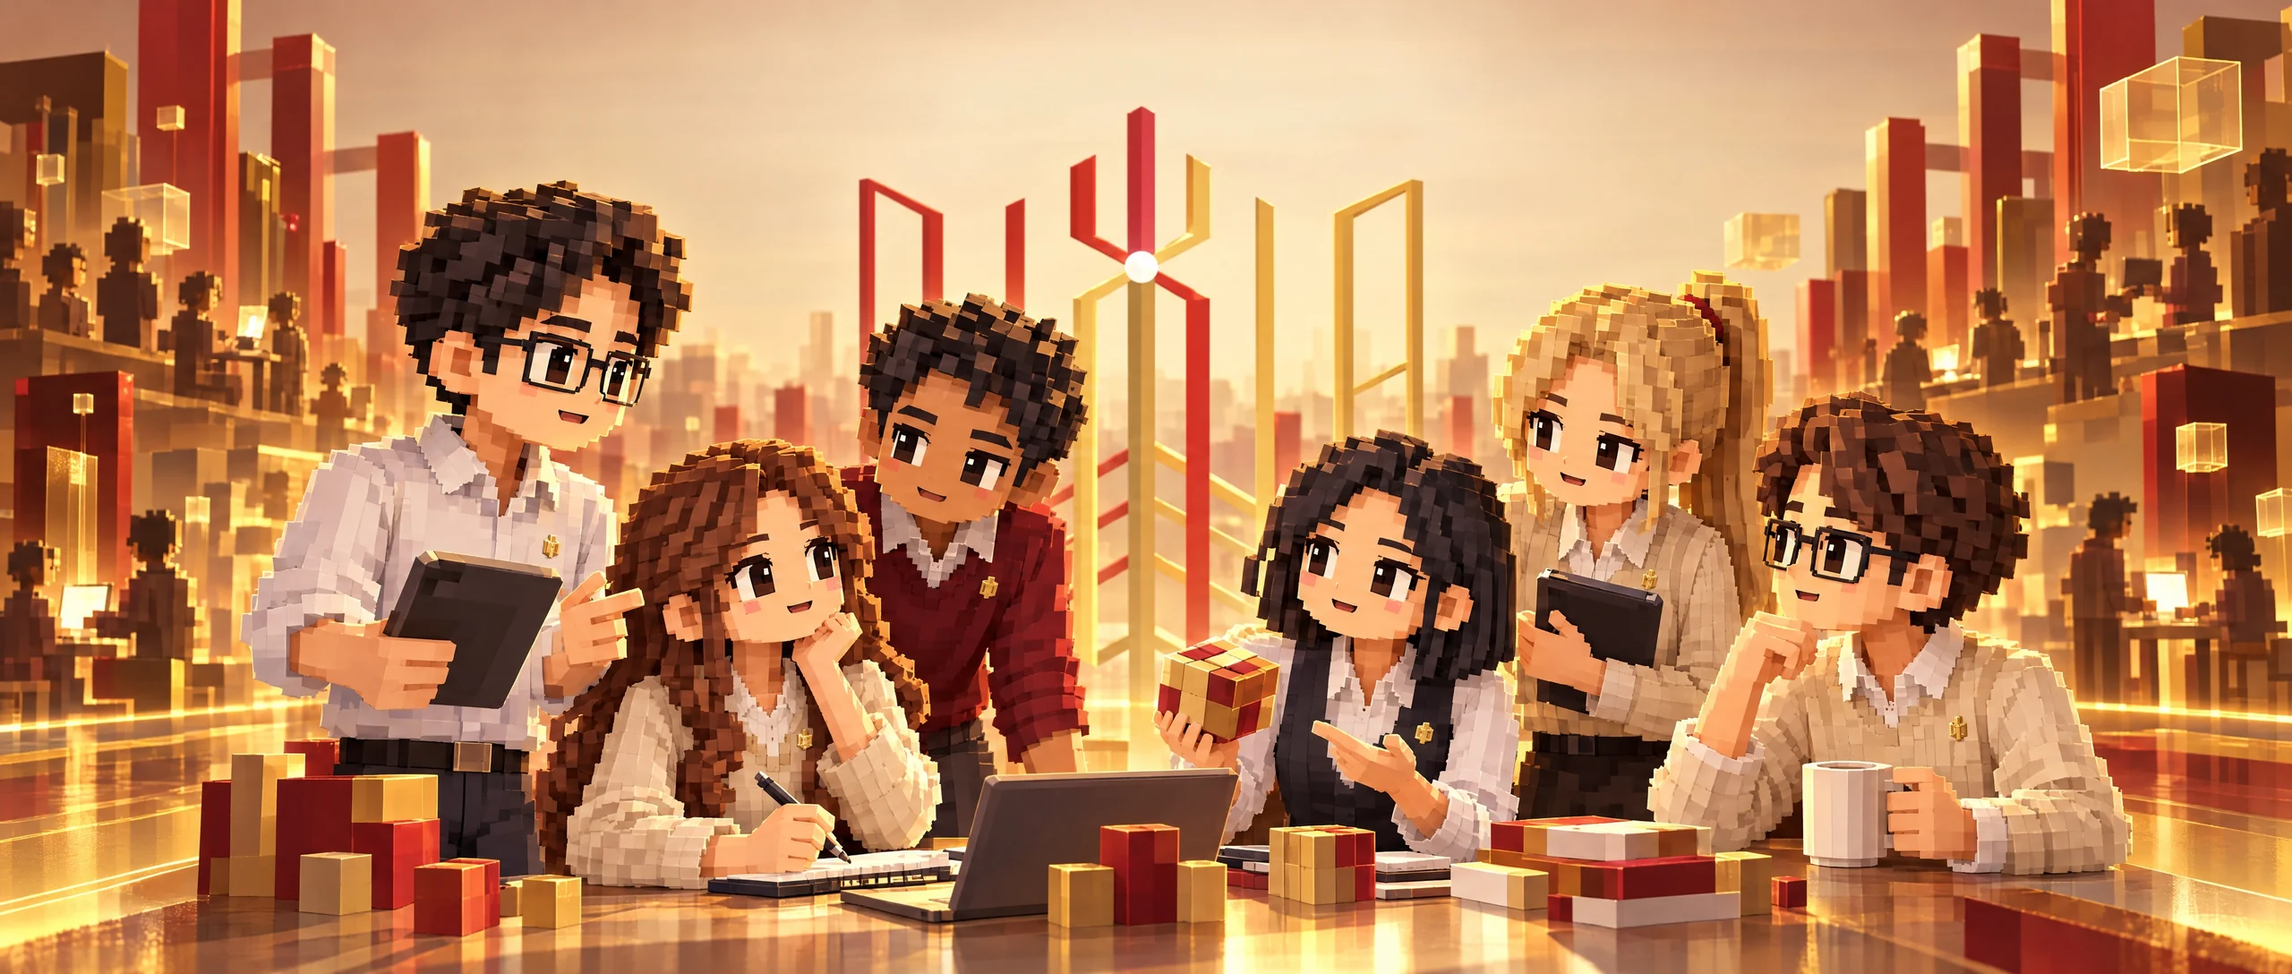
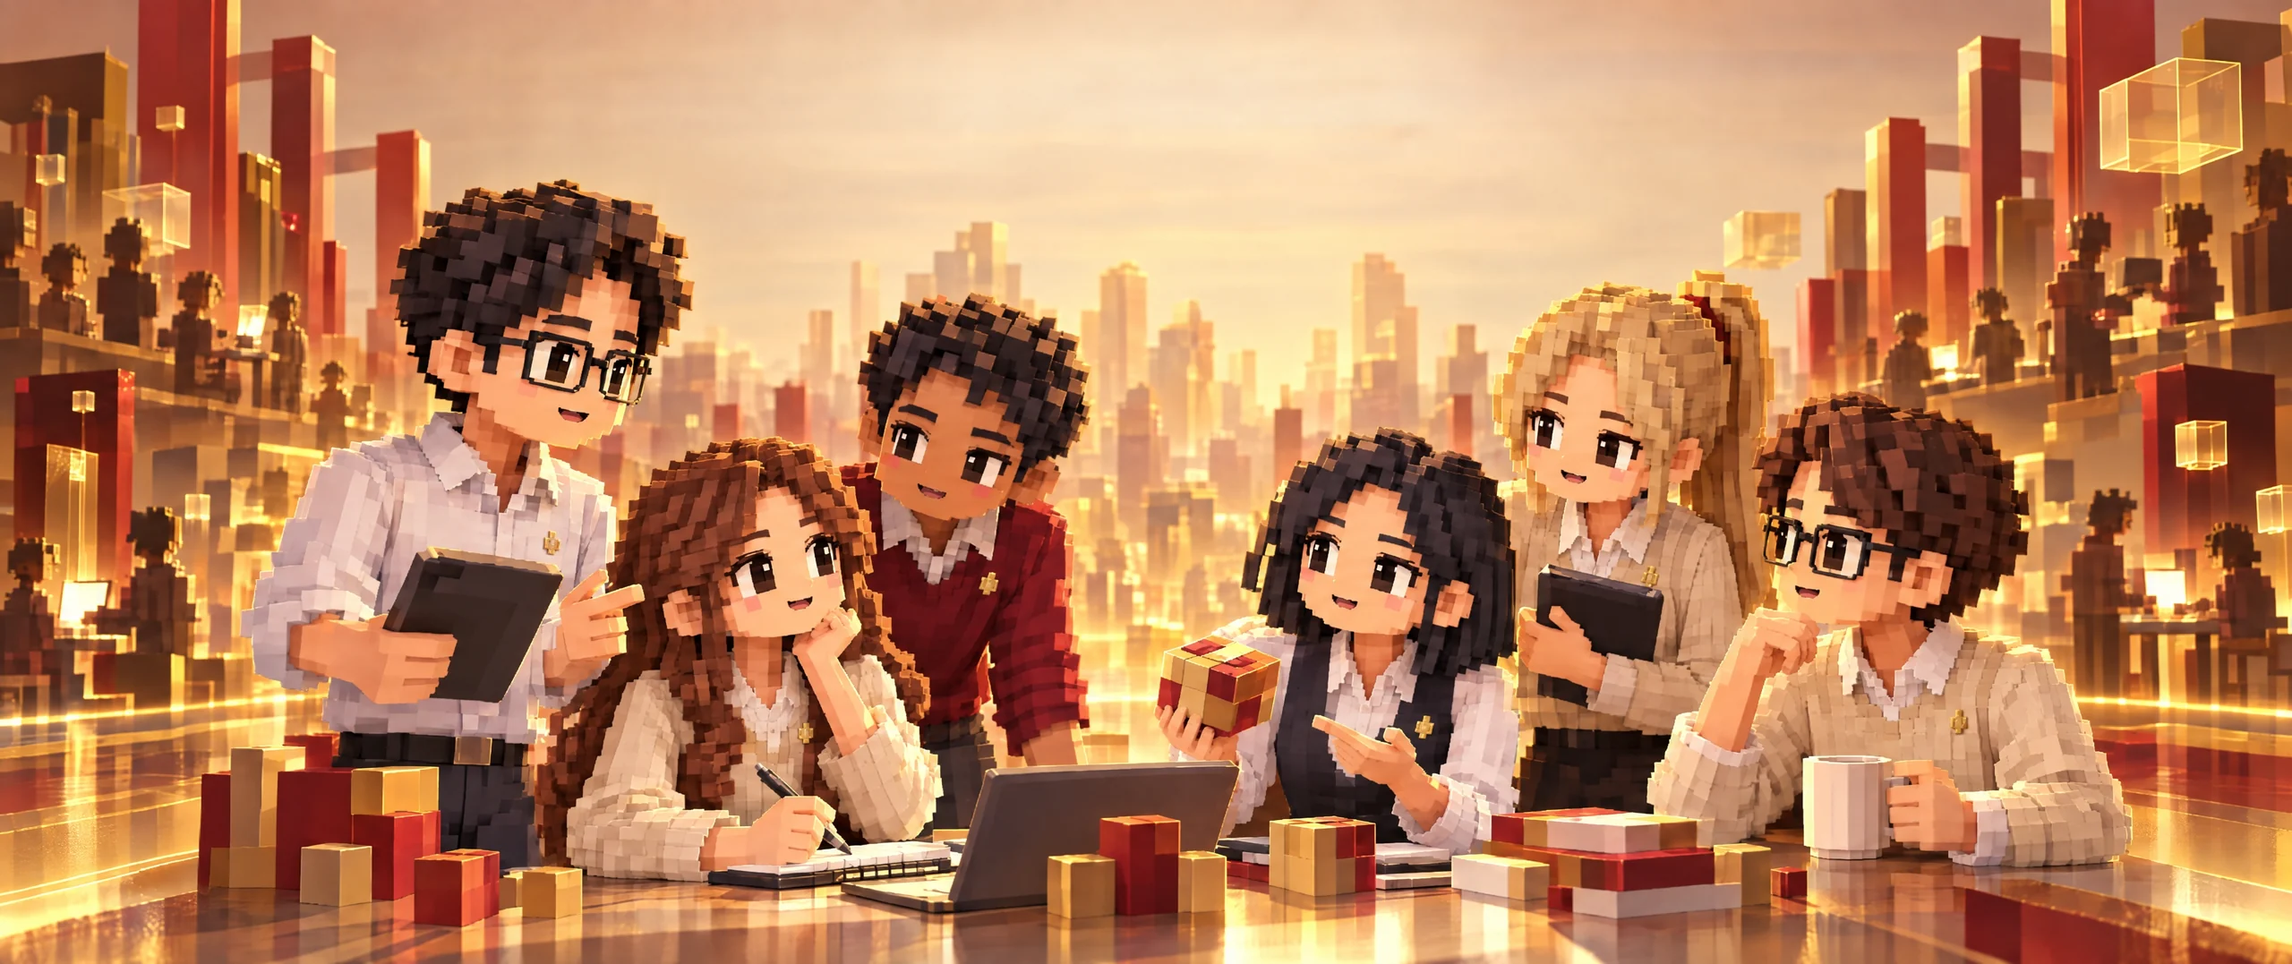
20261006-1530

diff --git a/src/components/templates/members/detail.tsx b/src/components/templates/members/detail.tsx
@@ -16,8 +16,8 @@ import {
 import type {MemberData} from '@/types/data'
 
 // Image Imports
-import banner2 from '@/assets/images/banner/2.webp'
-import banner2m from '@/assets/images/banner/2m.webp'
+import bannerCurrent from '@/assets/images/banner/current.webp'
+import bannerCurrentM from '@/assets/images/banner/current-m.webp'
 
 // Email Popup Component
 const EmailPopup = ({ email, onClose, degree }: { email: string; onClose: () => void; degree?: string }) => {
@@ -127,11 +127,11 @@ export const MembersDetailTemplate = ({memberId}: Props) => {
         <div className="relative w-full h-200 md:h-332 overflow-hidden">
           <div
             className="absolute inset-0 bg-cover bg-center md:hidden"
-            style={{backgroundImage: `url(${banner2m})`}}
+            style={{ backgroundImage: `url(${bannerCurrentM})`, backgroundPosition: '50% 30%' }}
           />
           <div
             className="absolute inset-0 hidden md:block bg-cover bg-center"
-            style={{backgroundImage: `url(${banner2})`}}
+            style={{ backgroundImage: `url(${bannerCurrent})`, backgroundPosition: '50% 15%' }}
           />
           <div className="absolute inset-0 bg-black/40"/>
           <div className="absolute inset-0" style={{backgroundColor: 'rgba(214, 177, 77, 0.08)'}} />
@@ -149,11 +149,11 @@ export const MembersDetailTemplate = ({memberId}: Props) => {
         <div className="relative w-full h-200 md:h-332 overflow-hidden">
           <div
             className="absolute inset-0 bg-cover bg-center md:hidden"
-            style={{backgroundImage: `url(${banner2m})`}}
+            style={{ backgroundImage: `url(${bannerCurrentM})`, backgroundPosition: '50% 30%' }}
           />
           <div
             className="absolute inset-0 hidden md:block bg-cover bg-center"
-            style={{backgroundImage: `url(${banner2})`}}
+            style={{ backgroundImage: `url(${bannerCurrent})`, backgroundPosition: '50% 15%' }}
           />
           <div className="absolute inset-0 bg-black/40"/>
           <div className="absolute inset-0" style={{backgroundColor: 'rgba(214, 177, 77, 0.08)'}} />
@@ -192,11 +192,11 @@ export const MembersDetailTemplate = ({memberId}: Props) => {
       <div className="relative w-full h-200 md:h-332 overflow-hidden">
         <div
           className="absolute inset-0 bg-cover bg-center md:hidden"
-          style={{backgroundImage: `url(${banner2m})`}}
+          style={{ backgroundImage: `url(${bannerCurrentM})`, backgroundPosition: '50% 30%' }}
         />
         <div
           className="absolute inset-0 hidden md:block bg-cover bg-center"
-          style={{backgroundImage: `url(${banner2})`}}
+          style={{ backgroundImage: `url(${bannerCurrent})`, backgroundPosition: '50% 15%' }}
         />
         <div className="absolute inset-0 bg-black/40"/>
           <div className="absolute inset-0" style={{backgroundColor: 'rgba(214, 177, 77, 0.08)'}} />

diff --git a/src/components/templates/home/index.tsx b/src/components/templates/home/index.tsx
@@ -418,10 +418,16 @@ export const HomeTemplate = () => {
         <img loading="eager" src={hero4} alt="" className="absolute inset-0 w-full h-full object-cover" />
         <div className="absolute inset-0 bg-black/60" />
         <div className="relative h-full flex flex-col items-center justify-center text-center text-white px-16">
-          <img loading="eager" src={logoFinds} alt="FINDS Lab" 
-            className={`w-80 md:w-112 h-auto mb-16 md:mb-24 transition-all duration-700 cursor-pointer ${logoTapped ? '' : 'brightness-0 invert'} ${!logoTapped ? 'md:hover:brightness-100 md:hover:invert-0' : ''}`}
-            onClick={() => setLogoTapped(prev => !prev)}
-          />
+          {/* 배경 그림 속 로고와 구분되도록 얇은 윤곽선 + 부드러운 그림자 (색 전환 필터와 분리하기 위해 바깥 틀에 적용) */}
+          <div
+            className="mb-16 md:mb-24"
+            style={{ filter: 'drop-shadow(0 0 1px rgba(0,0,0,0.9)) drop-shadow(0 0 1px rgba(0,0,0,0.6)) drop-shadow(0 4px 12px rgba(0,0,0,0.55))' }}
+          >
+            <img loading="eager" src={logoFinds} alt="FINDS Lab" 
+              className={`w-80 md:w-112 h-auto transition-all duration-700 cursor-pointer ${logoTapped ? '' : 'brightness-0 invert'} ${!logoTapped ? 'md:hover:brightness-100 md:hover:invert-0' : ''}`}
+              onClick={() => setLogoTapped(prev => !prev)}
+            />
+          </div>
           <h2 className="text-xl md:text-2xl font-semibold text-primary mb-8">FINDS Lab</h2>
           <p className="text-base md:text-xl font-medium mb-12 md:mb-16">
             <span style={{ color: '#E8D688' }}>Fin</span>

diff --git a/src/components/templates/members/alumni.tsx b/src/components/templates/members/alumni.tsx
@@ -1,8 +1,8 @@
 import React, {memo, useState, useEffect, useRef, useMemo} from 'react'
 import {Link} from 'react-router-dom'
 import {Home, GraduationCap, Building2, ChevronDown, ChevronUp, FileText, ExternalLink, BookOpen, Lightbulb, Users, ArrowUpDown, ArrowUp, ArrowDown} from 'lucide-react'
-import banner2 from '@/assets/images/banner/2.webp'
-import banner2m from '@/assets/images/banner/2m.webp'
+import bannerAlumni from '@/assets/images/banner/alumni.webp'
+import bannerAlumniM from '@/assets/images/banner/alumni-m.webp'
 
 // Get initials from English name (Korean style: "First-Name Last" → "LFN")
 const getInitialsFromEnglishName = (nameEn?: string): string => {
@@ -316,11 +316,11 @@ export const MembersAlumniTemplate = () => {
       <div className="relative w-full h-[clamp(190px,26vw,440px)] overflow-hidden">
         <div
           className="absolute inset-0 bg-cover bg-center md:hidden"
-          style={{backgroundImage: `url(${banner2m})`}}
+          style={{ backgroundImage: `url(${bannerAlumniM})`, backgroundPosition: '50% 30%' }}
         />
         <div
           className="absolute inset-0 hidden md:block bg-cover bg-center md:scale-105 transition-transform duration-[2000ms]"
-          style={{backgroundImage: `url(${banner2})`}}
+          style={{ backgroundImage: `url(${bannerAlumni})`, backgroundPosition: '50% 22%' }}
         />
         <div className="absolute inset-0 bg-gradient-to-br from-black/42 via-black/22 to-[#D6A076]/20" />
         <div className="absolute inset-0" style={{background: 'radial-gradient(ellipse 55% 70% at 50% 50%, rgba(0,0,0,0.34) 0%, transparent 70%)'}} />

diff --git a/src/components/templates/projects/index.tsx b/src/components/templates/projects/index.tsx
@@ -2,8 +2,8 @@ import {memo, useState, useEffect, useRef} from 'react'
 import { DIRECTOR_NAME_KO } from '@/data/director-common'
 import {Link} from 'react-router-dom'
 import {Home, School, Landmark, FlaskConical, Briefcase, ChevronDown, ChevronUp, Folder, TrendingUp, SlidersHorizontal, X, Search, CheckCircle, Factory} from 'lucide-react'
-import banner4 from '@/assets/images/banner/4.webp'
-import banner4m from '@/assets/images/banner/4m.webp'
+import bannerProjects from '@/assets/images/banner/projects.webp'
+import bannerProjectsM from '@/assets/images/banner/projects-m.webp'
 
 // Scroll animation hook
 const useScrollAnimation = () => {
@@ -368,11 +368,11 @@ export const ProjectsTemplate = () => {
       <div className="relative w-full h-[clamp(190px,26vw,440px)] overflow-hidden">
         <div
           className="absolute inset-0 bg-cover bg-center md:hidden"
-          style={{backgroundImage: `url(${banner4m})`}}
+          style={{ backgroundImage: `url(${bannerProjectsM})`, backgroundPosition: '50% 30%' }}
         />
         <div
           className="absolute inset-0 hidden md:block bg-cover bg-center md:scale-105 transition-transform duration-[2000ms]"
-          style={{backgroundImage: `url(${banner4})`}}
+          style={{ backgroundImage: `url(${bannerProjects})`, backgroundPosition: '50% 20%' }}
         />
         <div className="absolute inset-0 bg-gradient-to-br from-black/42 via-black/22 to-[#D6A076]/20" />
         <div className="absolute inset-0" style={{background: 'radial-gradient(ellipse 55% 70% at 50% 50%, rgba(0,0,0,0.34) 0%, transparent 70%)'}} />

diff --git a/src/components/templates/about/introduction.tsx b/src/components/templates/about/introduction.tsx
@@ -3,8 +3,8 @@ import { Link } from 'react-router-dom'
 import { Quote, Home, Target, Atom } from 'lucide-react'
 
 // Image Imports
-import banner1 from '@/assets/images/banner/1.webp'
-import banner1m from '@/assets/images/banner/1m.webp'
+import bannerIntro from '@/assets/images/banner/intro.webp'
+import bannerIntroM from '@/assets/images/banner/intro-m.webp'
 import fdsImg from '@/assets/images/icons/fds.webp'
 import baImg from '@/assets/images/icons/ba.webp'
 import dimImg from '@/assets/images/icons/dim.webp'
@@ -135,11 +135,11 @@ export const AboutIntroductionTemplate = () => {
       <div className="relative w-full h-[clamp(190px,26vw,440px)] overflow-hidden">
         <div
           className="absolute inset-0 bg-cover bg-center md:hidden"
-          style={{ backgroundImage: `url(${banner1m})` }}
+          style={{ backgroundImage: `url(${bannerIntroM})`, backgroundPosition: '50% 30%' }}
         />
         <div
           className="absolute inset-0 hidden md:block bg-cover bg-center md:scale-105 transition-transform duration-[2000ms]"
-          style={{ backgroundImage: `url(${banner1})` }}
+          style={{ backgroundImage: `url(${bannerIntro})`, backgroundPosition: '50% 12%' }}
         />
         <div className="absolute inset-0 bg-gradient-to-br from-black/42 via-black/22 to-[#D6A076]/20" />
         <div className="absolute inset-0" style={{background: 'radial-gradient(ellipse 55% 70% at 50% 50%, rgba(0,0,0,0.34) 0%, transparent 70%)'}} />

diff --git a/src/components/templates/members/director-portfolio-academic.tsx b/src/components/templates/members/director-portfolio-academic.tsx
@@ -71,8 +71,8 @@ type Lecture = {
 }
 
 // Image Imports
-import banner2 from '@/assets/images/banner/2.webp'
-import banner2m from '@/assets/images/banner/2m.webp'
+import bannerDirector from '@/assets/images/banner/director.webp'
+import bannerDirectorM from '@/assets/images/banner/director-m.webp'
 import directorImg from '@/assets/images/members/director.webp'
 import logoKaist from '@/assets/images/logos/kaist.png'
 import logoKyunghee from '@/assets/images/logos/kyunghee.png'
@@ -1361,11 +1361,11 @@ export const MembersDirectorPortfolioAcademicTemplate = () => {
       <div className="relative w-full h-[clamp(190px,26vw,440px)] overflow-hidden">
         <div
           className="absolute inset-0 bg-cover bg-center md:hidden"
-          style={{backgroundImage: `url(${banner2m})`}}
+          style={{ backgroundImage: `url(${bannerDirectorM})`, backgroundPosition: '50% 40%' }}
         />
         <div
           className="absolute inset-0 hidden md:block bg-cover bg-center md:scale-105 transition-transform duration-[2000ms]"
-          style={{backgroundImage: `url(${banner2})`}}
+          style={{ backgroundImage: `url(${bannerDirector})`, backgroundPosition: '50% 15%' }}
         />
         <div className="absolute inset-0 bg-gradient-to-br from-black/42 via-black/22 to-[#D6A076]/20" />
         <div className="absolute inset-0" style={{background: 'radial-gradient(ellipse 55% 70% at 50% 50%, rgba(0,0,0,0.34) 0%, transparent 70%)'}} />

diff --git a/src/components/templates/members/director-portfolio-profile.tsx b/src/components/templates/members/director-portfolio-profile.tsx
@@ -92,8 +92,8 @@ type Lecture = {
 }
 
 // Image Imports
-import banner2 from '@/assets/images/banner/2.webp'
-import banner2m from '@/assets/images/banner/2m.webp'
+import bannerDirector from '@/assets/images/banner/director.webp'
+import bannerDirectorM from '@/assets/images/banner/director-m.webp'
 import directorImg from '@/assets/images/members/director.webp'
 import logoKaist from '@/assets/images/logos/kaist.png'
 import logoKyunghee from '@/assets/images/logos/kyunghee.png'
@@ -538,11 +538,11 @@ export const MembersDirectorPortfolioProfileTemplate = () => {
       <div className="relative w-full h-[clamp(190px,26vw,440px)] overflow-hidden">
         <div
           className="absolute inset-0 bg-cover bg-center md:hidden"
-          style={{backgroundImage: `url(${banner2m})`}}
+          style={{ backgroundImage: `url(${bannerDirectorM})`, backgroundPosition: '50% 40%' }}
         />
         <div
           className="absolute inset-0 hidden md:block bg-cover bg-center md:scale-105 transition-transform duration-[2000ms]"
-          style={{backgroundImage: `url(${banner2})`}}
+          style={{ backgroundImage: `url(${bannerDirector})`, backgroundPosition: '50% 15%' }}
         />
         <div className="absolute inset-0 bg-gradient-to-br from-black/42 via-black/22 to-[#D6A076]/20" />
         <div className="absolute inset-0" style={{background: 'radial-gradient(ellipse 55% 70% at 50% 50%, rgba(0,0,0,0.34) 0%, transparent 70%)'}} />

diff --git a/src/components/templates/members/director-academic.tsx b/src/components/templates/members/director-academic.tsx
@@ -70,8 +70,8 @@ type Lecture = {
 }
 
 // Image Imports
-import banner2 from '@/assets/images/banner/2.webp'
-import banner2m from '@/assets/images/banner/2m.webp'
+import bannerDirector from '@/assets/images/banner/director.webp'
+import bannerDirectorM from '@/assets/images/banner/director-m.webp'
 import directorImg from '@/assets/images/members/director.webp'
 import logoKaist from '@/assets/images/logos/kaist.png'
 import logoKyunghee from '@/assets/images/logos/kyunghee.png'
@@ -1334,11 +1334,11 @@ export const MembersDirectorAcademicTemplate = () => {
       <div className="relative w-full h-[clamp(190px,26vw,440px)] overflow-hidden">
         <div
           className="absolute inset-0 bg-cover bg-center md:hidden"
-          style={{backgroundImage: `url(${banner2m})`}}
+          style={{ backgroundImage: `url(${bannerDirectorM})`, backgroundPosition: '50% 40%' }}
         />
         <div
           className="absolute inset-0 hidden md:block bg-cover bg-center md:scale-105 transition-transform duration-[2000ms]"
-          style={{backgroundImage: `url(${banner2})`}}
+          style={{ backgroundImage: `url(${bannerDirector})`, backgroundPosition: '50% 15%' }}
         />
         <div className="absolute inset-0 bg-gradient-to-br from-black/42 via-black/22 to-[#D6A076]/20" />
         <div className="absolute inset-0" style={{background: 'radial-gradient(ellipse 55% 70% at 50% 50%, rgba(0,0,0,0.34) 0%, transparent 70%)'}} />

diff --git a/src/components/templates/members/director.tsx b/src/components/templates/members/director.tsx
@@ -72,8 +72,8 @@ type Lecture = {
 }
 
 // Image Imports
-import banner2 from '@/assets/images/banner/2.webp'
-import banner2m from '@/assets/images/banner/2m.webp'
+import bannerDirector from '@/assets/images/banner/director.webp'
+import bannerDirectorM from '@/assets/images/banner/director-m.webp'
 import directorImg from '@/assets/images/members/director.webp'
 import logoKaist from '@/assets/images/logos/kaist.png'
 import logoKyunghee from '@/assets/images/logos/kyunghee.png'
@@ -629,11 +629,11 @@ export const MembersDirectorTemplate = () => {
       <div className="relative w-full h-[clamp(190px,26vw,440px)] overflow-hidden">
         <div
           className="absolute inset-0 bg-cover bg-center md:hidden"
-          style={{backgroundImage: `url(${banner2m})`}}
+          style={{ backgroundImage: `url(${bannerDirectorM})`, backgroundPosition: '50% 40%' }}
         />
         <div
           className="absolute inset-0 hidden md:block bg-cover bg-center md:scale-105 transition-transform duration-[2000ms]"
-          style={{backgroundImage: `url(${banner2})`}}
+          style={{ backgroundImage: `url(${bannerDirector})`, backgroundPosition: '50% 15%' }}
         />
         <div className="absolute inset-0 bg-gradient-to-br from-black/42 via-black/22 to-[#D6A076]/20" />
         <div className="absolute inset-0" style={{background: 'radial-gradient(ellipse 55% 70% at 50% 50%, rgba(0,0,0,0.34) 0%, transparent 70%)'}} />

diff --git a/src/components/templates/members/director-activities.tsx b/src/components/templates/members/director-activities.tsx
@@ -70,8 +70,8 @@ type NetworkLink = {
 }
 
 // Image Imports
-import banner2 from '@/assets/images/banner/2.webp'
-import banner2m from '@/assets/images/banner/2m.webp'
+import bannerDirector from '@/assets/images/banner/director.webp'
+import bannerDirectorM from '@/assets/images/banner/director-m.webp'
 
 const formatHonorDate = (dateStr: string): string => {
   // Check if it's a date range format like "2018-02-26 – 2020-02-28"
@@ -1444,11 +1444,11 @@ export const MembersDirectorActivitiesTemplate = () => {
       <div className="relative w-full h-[clamp(190px,26vw,440px)] overflow-hidden">
         <div
           className="absolute inset-0 bg-cover bg-center md:hidden"
-          style={{backgroundImage: `url(${banner2m})`}}
+          style={{ backgroundImage: `url(${bannerDirectorM})`, backgroundPosition: '50% 40%' }}
         />
         <div
           className="absolute inset-0 hidden md:block bg-cover bg-center md:scale-105 transition-transform duration-[2000ms]"
-          style={{backgroundImage: `url(${banner2})`}}
+          style={{ backgroundImage: `url(${bannerDirector})`, backgroundPosition: '50% 15%' }}
         />
         <div className="absolute inset-0 bg-gradient-to-br from-black/42 via-black/22 to-[#D6A076]/20" />
         <div className="absolute inset-0" style={{background: 'radial-gradient(ellipse 55% 70% at 50% 50%, rgba(0,0,0,0.34) 0%, transparent 70%)'}} />

diff --git a/src/components/templates/about/index.tsx b/src/components/templates/about/index.tsx
@@ -3,8 +3,8 @@ import { Link } from 'react-router-dom'
 import { Home } from 'lucide-react'
 
 // Image Imports
-import banner1 from '@/assets/images/banner/1.webp'
-import banner1m from '@/assets/images/banner/1m.webp'
+import bannerLocation from '@/assets/images/banner/location.webp'
+import bannerLocationM from '@/assets/images/banner/location-m.webp'
 import locationImg from '@/assets/images/location/1.webp'
 
 // Scroll animation hook
@@ -40,11 +40,11 @@ export const LocationTemplate = () => {
       <div className="relative w-full h-[clamp(190px,26vw,440px)] overflow-hidden">
         <div
           className="absolute inset-0 bg-cover bg-center md:hidden"
-          style={{ backgroundImage: `url(${banner1m})` }}
+          style={{ backgroundImage: `url(${bannerLocationM})`, backgroundPosition: '50% 30%' }}
         />
         <div
           className="absolute inset-0 hidden md:block bg-cover bg-center md:scale-105 transition-transform duration-[2000ms]"
-          style={{ backgroundImage: `url(${banner1})` }}
+          style={{ backgroundImage: `url(${bannerLocation})`, backgroundPosition: '50% 18%' }}
         />
         <div className="absolute inset-0 bg-gradient-to-br from-black/42 via-black/22 to-[#D6A076]/20" />
         <div className="absolute inset-0" style={{background: 'radial-gradient(ellipse 55% 70% at 50% 50%, rgba(0,0,0,0.34) 0%, transparent 70%)'}} />

diff --git a/src/components/templates/members/director-portfolio-activities.tsx b/src/components/templates/members/director-portfolio-activities.tsx
@@ -70,8 +70,8 @@ type NetworkLink = {
 }
 
 // Image Imports
-import banner2 from '@/assets/images/banner/2.webp'
-import banner2m from '@/assets/images/banner/2m.webp'
+import bannerDirector from '@/assets/images/banner/director.webp'
+import bannerDirectorM from '@/assets/images/banner/director-m.webp'
 
 const formatHonorDate = (dateStr: string): string => {
   const monthMap: Record<string, string> = {
@@ -1438,11 +1438,11 @@ export const MembersDirectorPortfolioActivitiesTemplate = () => {
       <div className="relative w-full h-[clamp(190px,26vw,440px)] overflow-hidden">
         <div
           className="absolute inset-0 bg-cover bg-center md:hidden"
-          style={{backgroundImage: `url(${banner2m})`}}
+          style={{ backgroundImage: `url(${bannerDirectorM})`, backgroundPosition: '50% 40%' }}
         />
         <div
           className="absolute inset-0 hidden md:block bg-cover bg-center md:scale-105 transition-transform duration-[2000ms]"
-          style={{backgroundImage: `url(${banner2})`}}
+          style={{ backgroundImage: `url(${bannerDirector})`, backgroundPosition: '50% 15%' }}
         />
         <div className="absolute inset-0 bg-gradient-to-br from-black/42 via-black/22 to-[#D6A076]/20" />
         <div className="absolute inset-0" style={{background: 'radial-gradient(ellipse 55% 70% at 50% 50%, rgba(0,0,0,0.34) 0%, transparent 70%)'}} />
